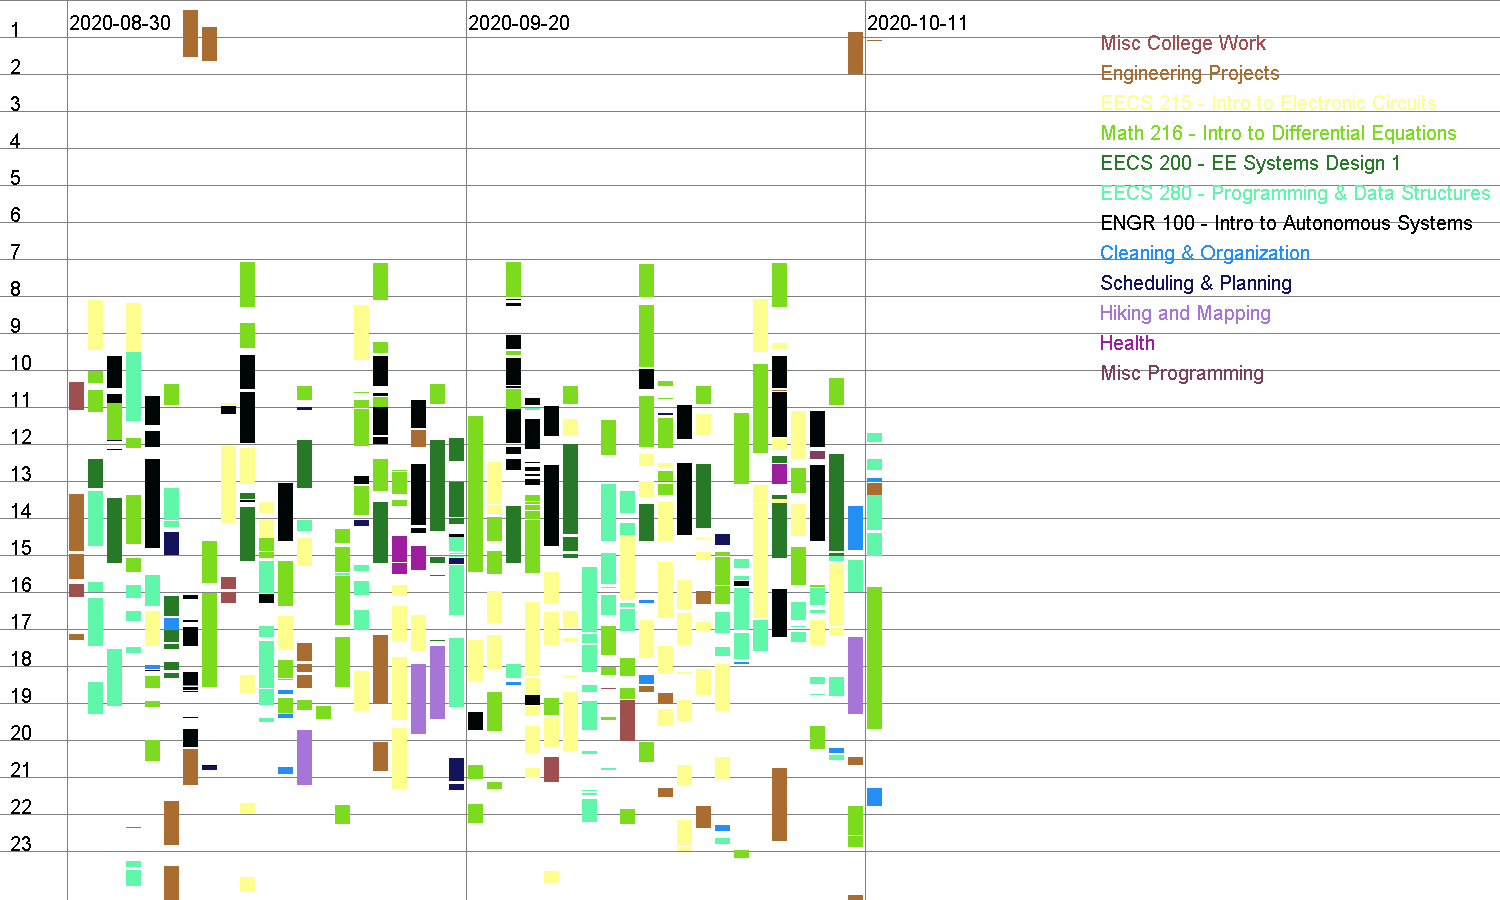
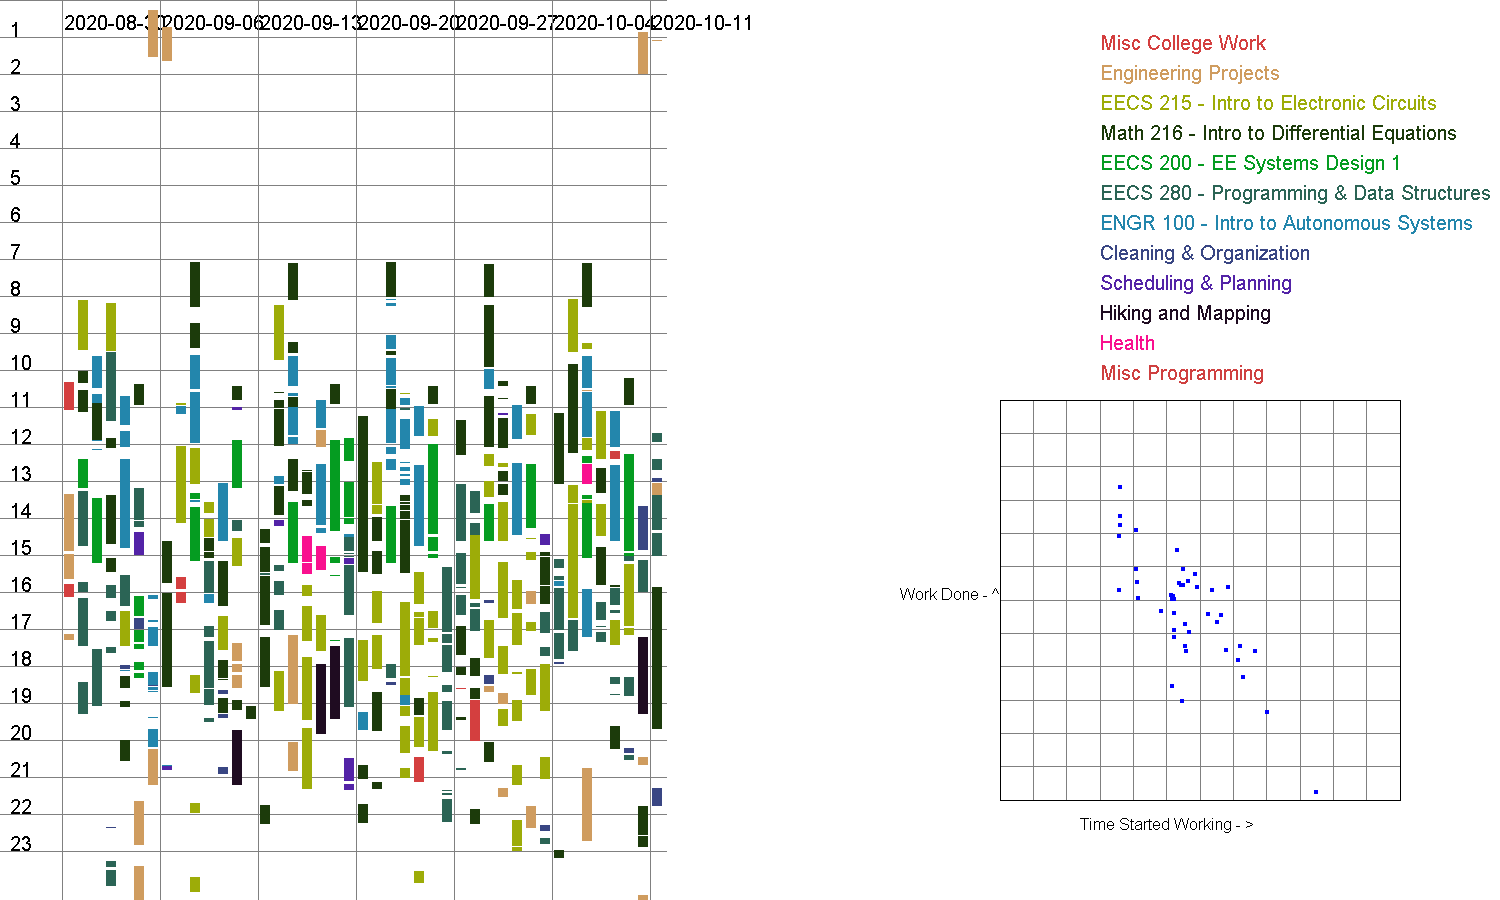
time plots

diff --git a/src/Main.java b/src/Main.java
@@ -1,3 +1,5 @@
+import com.sun.javafx.geom.Vec2f;
+
 import javax.imageio.ImageIO;
 import java.applet.Applet;
 import java.awt.*;
@@ -43,7 +45,6 @@ public class Main extends Applet implements Runnable, KeyListener {
         this.addKeyListener(this);
         img=createImage(WIDTH,HEIGHT);
         gfx=img.getGraphics();
-        gfx.setFont(gfx.getFont().deriveFont(20f));
         days=new ArrayList<>();
         cols=new ArrayList<>();
         importData();
@@ -57,20 +58,23 @@ public class Main extends Applet implements Runnable, KeyListener {
         gfx.fillRect(0,0,WIDTH,HEIGHT);//background size
 
         //RENDER FOREGROUND
+        gfx.setFont(gfx.getFont().deriveFont(20f));
+
         int x=50;
-        int w=15;
+        int w=10;
         int sep=4;
+        int endx=x+((w+sep)*(days.size()+1));
         for (int y=0;y<24;y++){
             int y1=(HEIGHT/24)*y;
             gfx.setColor(Color.GRAY);
-            gfx.drawLine(0,y1,WIDTH,y1);
+            gfx.drawLine(0,y1,endx,y1);
             gfx.setColor(Color.BLACK);
             gfx.drawString(y+"",10,y1);
         }
         int x1=x;
         for (int i=0;i<days.size();i++){
             x=x+w+sep;
-            if (i%21==0){
+            if (i%7==0){
                 gfx.setColor(Color.GRAY);
                 gfx.drawLine(x-(sep/2),0,x-(sep/2),HEIGHT);
                 gfx.setColor(Color.BLACK);
@@ -95,9 +99,34 @@ public class Main extends Applet implements Runnable, KeyListener {
             gfx.setColor(projcols[i]);
             gfx.drawString(prs[i],WIDTH-400,y+(30*i));
         }
+        drawTimePlot(gfx,1000,400);
 
         //FINAL
         g.drawImage(img,0,0,this);
+    }
+
+    public void drawTimePlot(Graphics g,int x, int y){
+        int wid=400;
+        int hei=400;
+        ArrayList<Vec2f> points=new ArrayList<>();
+        for (Day d:days){
+            points.add(d.getDayTime());
+        }
+        gfx.setColor(Color.gray);
+        for (int i=0; i<12; i++){
+            gfx.drawLine(x,y+(i*hei/12),x+wid,y+(i*hei/12));
+            gfx.drawLine(x+(i*wid/12),y,x+(i*wid/12),y+hei);
+        }
+        gfx.setColor(Color.BLACK);
+        g.drawRect(x,y,wid,hei);
+        gfx.setFont(gfx.getFont().deriveFont(16f));
+
+        g.drawString("Time Started Working - >",x+wid/5,y+hei+30);
+        g.drawString("Work Done - ^",x-100,y+hei/2);
+        gfx.setColor(Color.blue);
+        for (Vec2f v: points){
+            g.fillOval(x+(int)(v.x*wid/24f)-4,y+hei-(int)(v.y*hei/12f)-4,8,8);
+        }
     }
 
     public void importData(){

diff --git a/src/Day.java b/src/Day.java
@@ -1,3 +1,6 @@
+import com.sun.javafx.geom.Vec2f;
+import com.sun.javafx.geom.Vec3f;
+
 import java.util.ArrayList;
 
 public class Day {
@@ -28,7 +31,20 @@ public class Day {
         for (Task t: tasks){
             System.out.println(t.toString());
         }
-
     }
+
+    public Vec2f getDayTime(){
+        Vec2f times=new Vec2f();
+        for (Task t: tasks){
+            if (t.start>4){
+                times.y+=t.dur;
+                if (times.x==0){
+                    times.x=t.start;
+                }
+            }
+        }
+        return times;
+    }
+
 
 }
